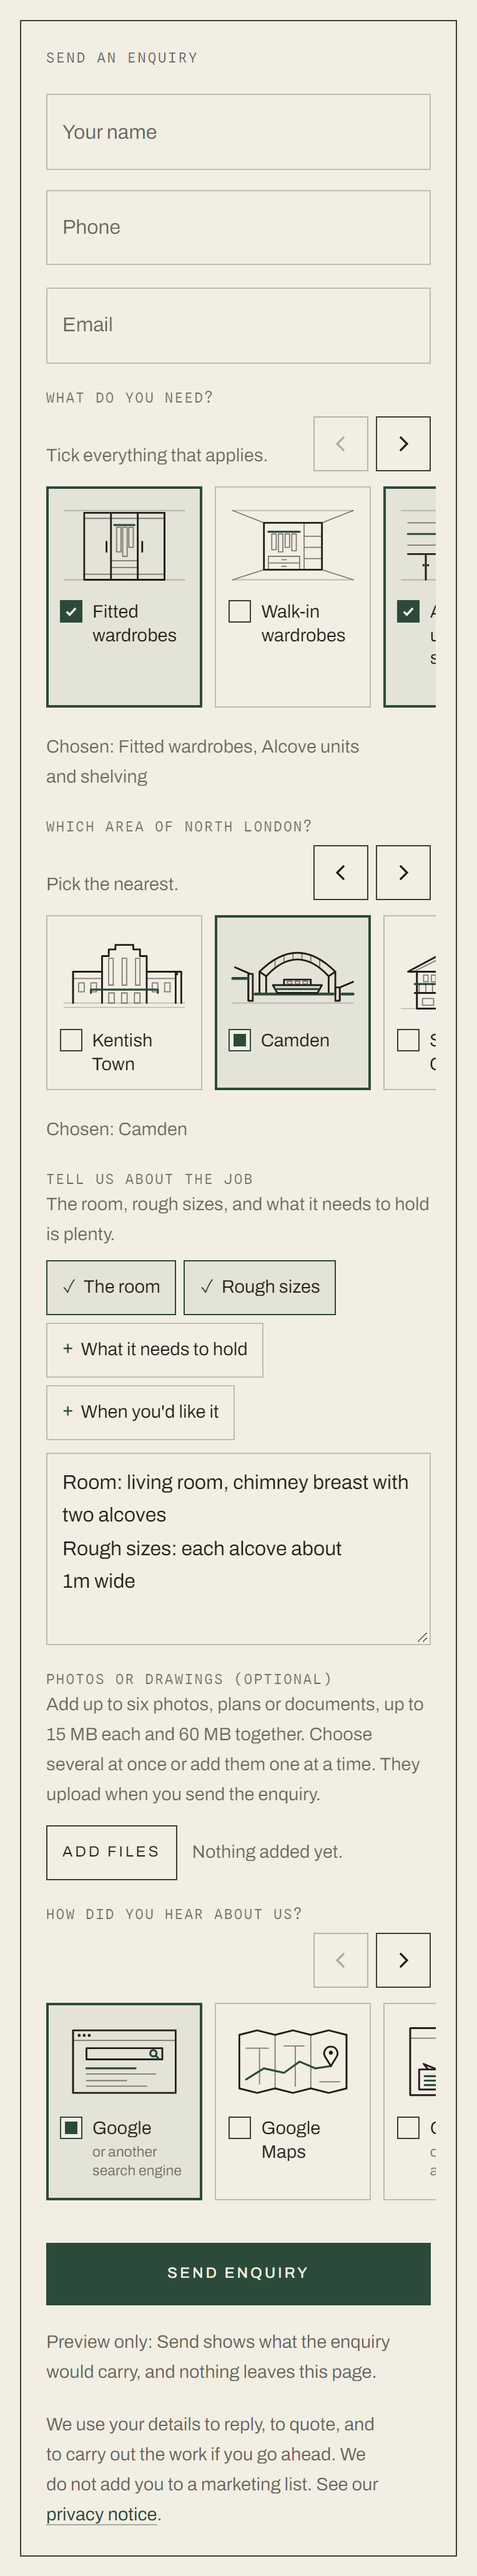
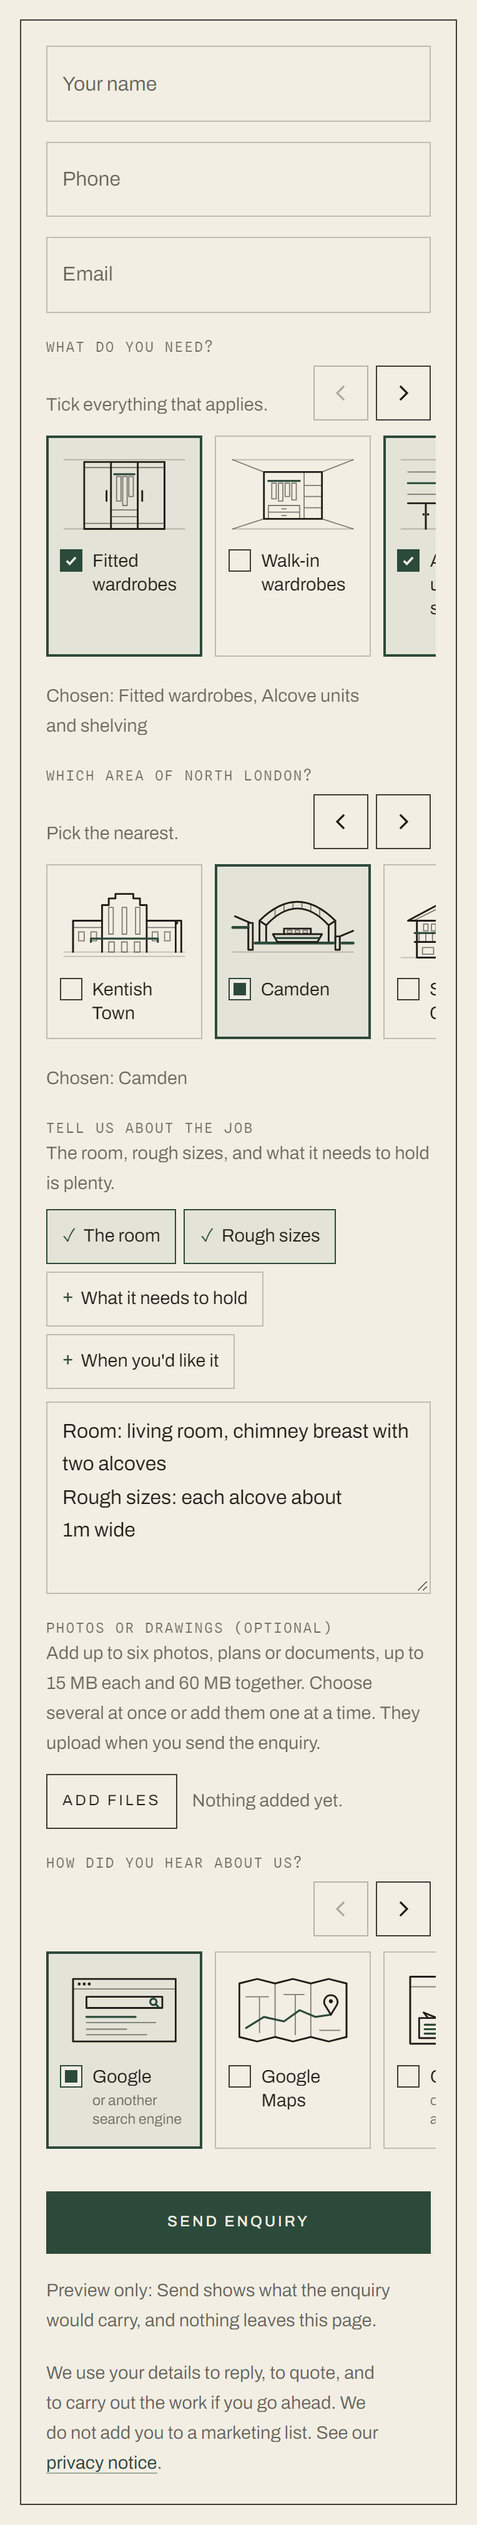
Enquiry page preview: form first and full width, stars only, contact details at the bottom (Arthur, 14 Nov)
A founder relaying Arthur, 14 Nov 2026, on the enquiry page:
- The review quotes go; the Google rating line stays, beside the heading.
- The form is the first thing on the page, across the full width (frame
  up to 1360px): name, phone and email on one line, the job box beside the
  photos, and each card question one row whose cards share the width, so
  all nine services and all eleven areas show at once from about 1,300px.
  A row that cannot fit scrolls, with its arrows. Sized by a container
  query on the form, so the pop-up keeps its own layout; phones swipe.
- Under the form, "Or talk to us directly": phone, WhatsApp, email, hours
  and the areas, with Kaspar's paragraph on what happens next.
- The internal preview note and the pop-up buttons move to the very end.
- New whole-page screenshots.

diff --git a/src/components/enquiry-cards/enquiry-cards.css b/src/components/enquiry-cards/enquiry-cards.css
@@ -8,13 +8,19 @@
  */
 
 /* ---- Form shell: as the live form ---------------------------------------- */
-.ecf { display: grid; gap: var(--space-9); }
+.ecf { display: grid; gap: var(--space-9); container: ecf / inline-size; }
 .ecf.is-compact { gap: var(--space-8); }
+/* Name, phone and email: one line where they fit (the full-width page form),
+   otherwise name and phone side by side and email across the full width
+   under them (the pop-up), one under another on a phone. */
 .ecf .ecf-row {
-  display: grid;
-  grid-template-columns: repeat(auto-fit, minmax(min(200px, 100%), 1fr));
+  display: flex;
+  flex-wrap: wrap;
   gap: var(--space-8);
 }
+.ecf .ecf-row > * { flex: 1 1 220px; min-width: 0; }
+/* The job box and the photos: one under the other, side by side on a wide form. */
+.ecf .ecf-pair { display: grid; gap: var(--space-9); align-items: start; }
 .ecf .ecf-label,
 .ecf .ec-legend {
   display: block;
@@ -150,6 +156,8 @@ form.ecf button.ecf-send:disabled { opacity: 0.45; cursor: not-allowed; backgrou
   min-height: 40px;
 }
 .ec-bar .ecf-help { margin: 0; }
+/* No help line and nothing to scroll: no empty strip under the question. */
+.ec-bar:not(:has(.ecf-help)):has(.ec-arrows[hidden]) { display: none; }
 .ec-arrows { display: flex; gap: var(--space-3); flex: none; }
 .ec-arrows[hidden] { display: none; }
 form.ecf button.ec-arrow {
@@ -283,6 +291,38 @@ html.js .ec-group[data-layout="row"] .ec-cards {
 }
 @media (prefers-reduced-motion: reduce) {
   .ec-cards { scroll-behavior: auto; }
+}
+
+/* ---- The wide form: the page form across the full width -------------------
+   A founder relaying Arthur, 14 Nov 2026: the form first on the page and
+   across it, so the service and area cards sit side by side and show at
+   once, scrolling only when a row cannot fit. Sized from the form's own
+   width (a container query), so the pop-up, which is narrower, keeps the
+   rows and grids above. Each row shares the width: a card is 96 to 150px
+   wide, so nine services fit on any laptop and the eleven areas fit from
+   about 1,300px wide; below that their row scrolls, with its arrows. */
+@container ecf (min-width: 860px) {
+  .ecf .ecf-pair { grid-template-columns: minmax(0, 3fr) minmax(0, 2fr); gap: var(--space-12); }
+  .ec-cards { gap: var(--space-3); }
+  html.js .ec-group[data-layout] .ec-cards {
+    grid-template-columns: none;
+    grid-template-rows: none;
+    grid-auto-flow: column;
+    grid-auto-columns: minmax(96px, 150px);
+    justify-content: start;
+    overflow-x: auto;
+    overscroll-behavior-x: contain;
+    scroll-snap-type: x mandatory;
+    scroll-padding-inline: 4px;
+    padding: 4px 4px var(--space-5);
+    margin: -4px -4px 0;
+    scrollbar-width: thin;
+    scrollbar-color: var(--hair-strong) transparent;
+  }
+  .ec-art { padding: var(--space-4) var(--space-3) 0; }
+  .ec-label { gap: var(--space-3); padding: var(--space-3) var(--space-4) var(--space-4); font-size: 12.5px; hyphens: auto; }
+  .ec-input { width: 16px; height: 16px; }
+  .ec-input[type="checkbox"]:checked { background-size: 11px; }
 }
 
 /* "Somewhere else": the box for an area or postcode, shown when that card is
